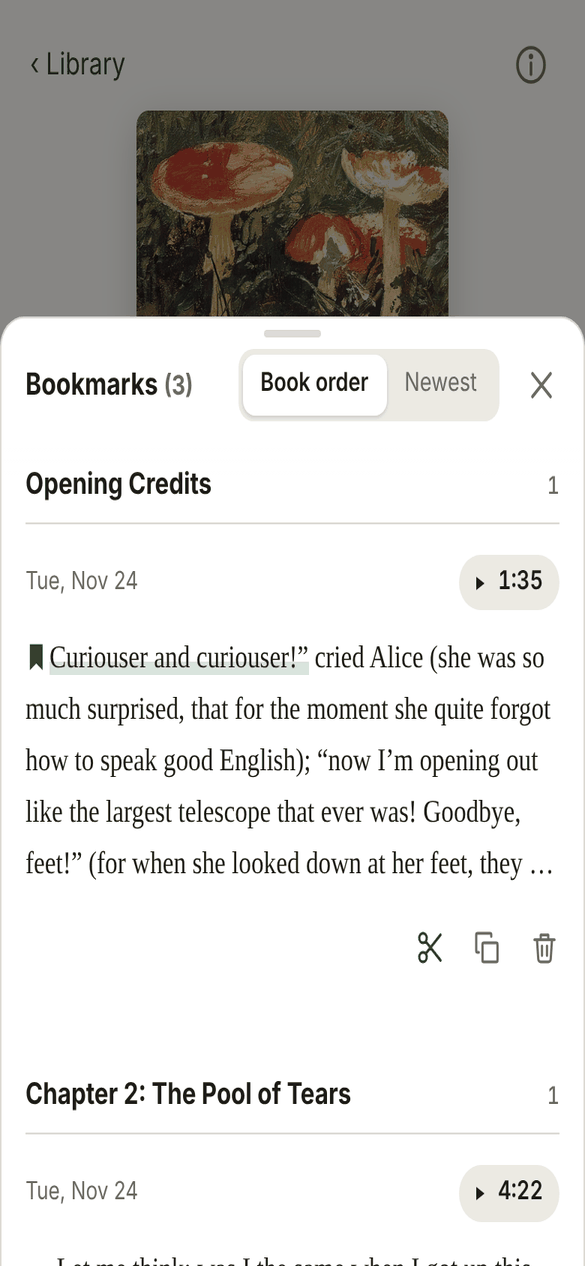
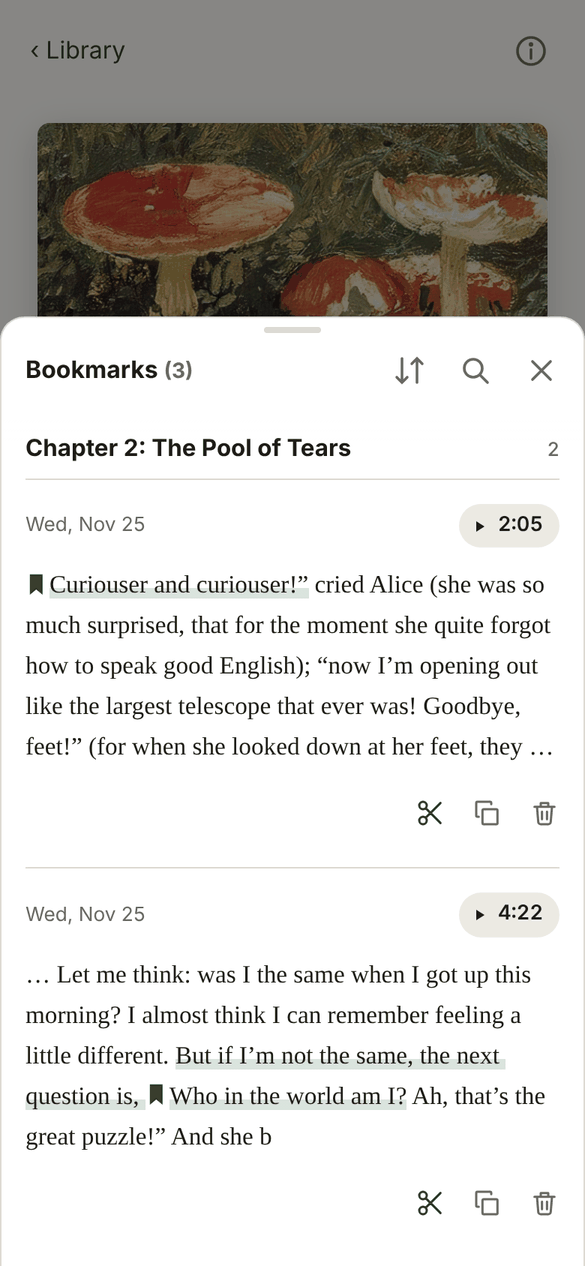
README: four pictures at their true proportions; note how to take screenshots
The README pictures and every contact sheet were stretched 27% taller:
screenshots from Playwright's iPhone 13 profile (390 x 664) had been
resized to a fixed 390 x 844. The pictures are retaken at the size of the
Home Screen app and scaled by one factor.

Down from seven pictures to four in one captioned row: player, bookmarks,
trimming, extras. CLAUDE.md says how to take and scale screenshots.

Claude-Session: https://claude.ai/code/session_018kUtteGJLH6kfEyY4LEyTL

diff --git a/README.md b/README.md
@@ -6,12 +6,20 @@ Press a button while you listen and Bork Mark saves the place. It then finds the
 
 **Open it:** https://jdavis-codes.github.io/bork-mark/
 
-<p>
-  <img src="docs/img/library.png" width="24%" alt="Library with one book and its progress">
-  <img src="docs/img/player.png" width="24%" alt="Player with cover, chapter, progress and a large Bookmark button">
-  <img src="docs/img/bookmarks.png" width="24%" alt="Bookmarks grouped by chapter, each with its quote">
-  <img src="docs/img/trim.png" width="24%" alt="Trimming a quote by dragging handles over the text">
-</p>
+<table>
+  <tr>
+    <td width="25%"><img src="docs/img/player.png" alt="The player: cover, chapter, progress and one large Bookmark button"></td>
+    <td width="25%"><img src="docs/img/bookmarks.png" alt="Bookmarks grouped by chapter, each showing the passage from the book"></td>
+    <td width="25%"><img src="docs/img/trim.png" alt="Trimming a quote by dragging handles over the text"></td>
+    <td width="25%"><img src="docs/img/extras.png" alt="Extras: the figures that came with the audiobook, listed by chapter"></td>
+  </tr>
+  <tr>
+    <td><b>Listen.</b> One big button, or the one on your headphones.</td>
+    <td><b>Get the words back.</b> Each bookmark becomes the passage, in the book’s own wording.</td>
+    <td><b>Keep what matters.</b> Drag to the sentences you want, then copy or share with a citation.</td>
+    <td><b>See what you’re hearing.</b> The figures that came with the audiobook, by chapter.</td>
+  </tr>
+</table>
 
 ## Getting started
 
@@ -21,10 +29,6 @@ Press a button while you listen and Bork Mark saves the place. It then finds the
 4. Open **Bookmarks** to read, trim, copy or share your quotes.
 
 Files must be free of copy protection, such as the downloads from Libro.fm. A short guide covers the same steps the first time you open the app; Settings can show it again.
-
-<p>
-  <img src="docs/img/intro.png" width="24%" alt="Intro guide step: why and how to add the app to the Home Screen">
-</p>
 
 ## What it does
 
@@ -39,11 +43,6 @@ Files must be free of copy protection, such as the downloads from Libro.fm. A sh
 | **Figures** | Pictures and tables in the book text are listed, and the app can chime when the reading reaches one. |
 | **Extras** | The PDF of figures, tables or notes that comes with many audiobooks: browse it page by page, or by the figures, tables and chapters found in it, starting at the chapter you are listening to. |
 | **Player** | Chapters, speed, sleep timer, skip buttons, a mini player, and your choice of accent colour. |
-
-<p>
-  <img src="docs/img/citations.png" width="24%" alt="Citation settings with style, audio time and a preview">
-  <img src="docs/img/info.png" width="24%" alt="About this book: title, author, publisher, year and file links">
-</p>
 
 ### Citations
 

diff --git a/CLAUDE.md b/CLAUDE.md
@@ -44,3 +44,9 @@ When to run what:
 - Big changes only (moving or splitting modules, the player, sheets, gestures, storage, launch): `full`, and `compare <last commit>` for refactors that should change no behaviour.
 - `speech` only when touching transcription, matching, quotes, chapter naming, the speech worker or the queue.
 - None of these is an iPhone. For anything about playback, the lock screen, memory or touch feel, also ask for a check on the dev copy.
+
+## Screenshots
+
+- Playwright's `devices['iPhone 13']` page is 390 × 664: Safari with its bars. The Home Screen app, which is how the app is used, is 390 × 844. Screenshots come out at the page's size times the scale factor (780 × 1328, or 780 × 1688), not at one fixed size.
+- Never resize a screenshot to a width and height written into the script. That is what stretched every contact sheet and the README pictures: 390 × 664 shots were forced into 390 × 844. Scale by one factor for both sides (`im.resize((round(w * k), round(h * k)))`, or `Image.thumbnail`), and lay a contact sheet out from each picture's own size.
+- README pictures (`docs/img/`): viewport 390 × 844 at `deviceScaleFactor: 2`, saved at 0.75 of that (585 × 1266). Keep them to the few that explain the app; the README shows four in one row, each with a caption. Use public-domain sample material, not a user's own files.
